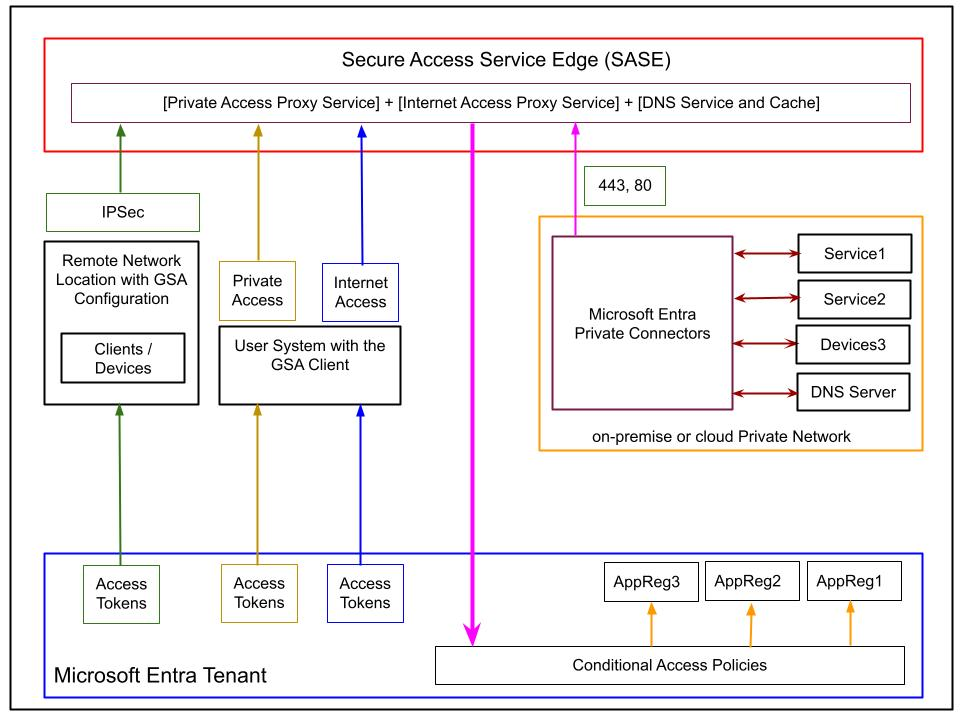
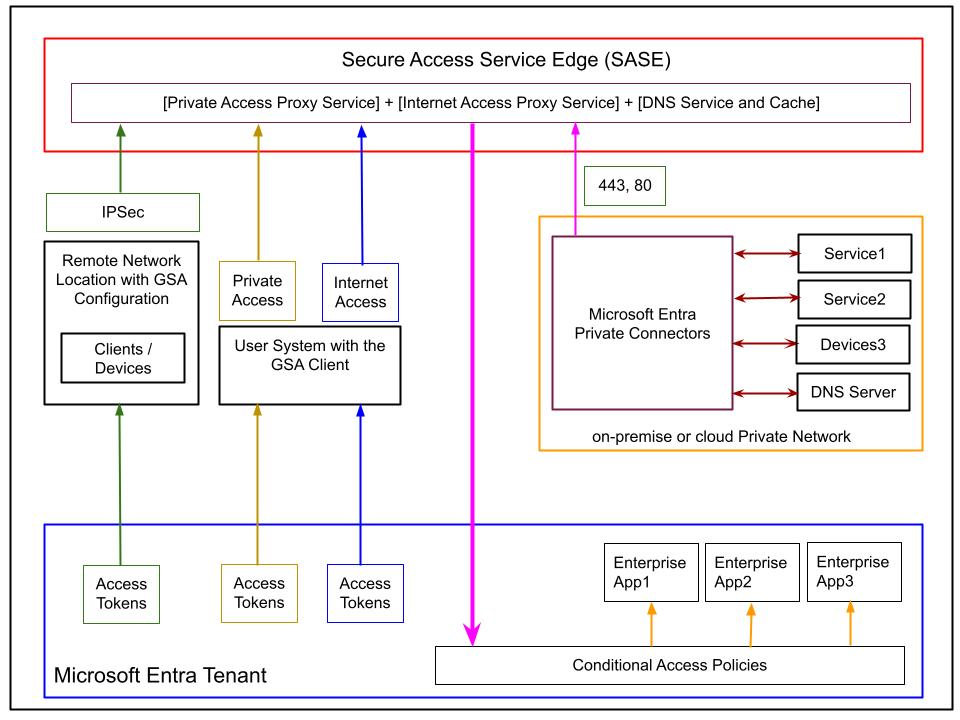
20260323

Changed region(s): [[0.0312, 0.7028, 0.9688, 0.825]]

diff --git a/Microsoft Global Access/PicoRevisedArticle01.md b/Microsoft Global Access/PicoRevisedArticle01.md
@@ -30,7 +30,7 @@ Global Secure Access uses Microsoft's global network presence to connect users t
 
 The **Global Secure Access Client** is installed on managed endpoints and is responsible for forwarding supported traffic to the Global Secure Access service. It works at operating system level and is typically deployed and managed through endpoint management tools such as Microsoft Intune or another MDM solution.
 
-The client forwards traffic according to the enabled **traffic forwarding profiles** and the applicable policy configuration. This point is important: traffic handling depends on what profiles are enabled and what scenarios are supported, not simply on the presence of the client alone.【call_qqiVeij6mF4lmXIi1RzyE0lb-4】【call_GSyrj7jUAJiktG9K4OdUI2le-9】
+The client forwards traffic according to the enabled **traffic forwarding profiles** and the applicable policy configuration. This point is important: traffic handling depends on what profiles are enabled and what scenarios are supported, not simply on the presence of the client alone.
 
 At a high level, the client can participate in forwarding three traffic categories:
 
@@ -38,17 +38,17 @@ At a high level, the client can participate in forwarding three traffic categori
 - **Microsoft 365 traffic**
 - **Internet traffic**
 
-These traffic categories are then processed by the service according to Microsoft Entra policy, user context, device context, and the specific capabilities enabled in the tenant.【call_qqiVeij6mF4lmXIi1RzyE0lb-1】
+These traffic categories are then processed by the service according to Microsoft Entra policy, user context, device context, and the specific capabilities enabled in the tenant.
 
 ## The private network connector
 
-The **Microsoft Entra private network connector** is used for Microsoft Entra Private Access. It is a lightweight Microsoft-managed component installed on Windows Server systems that have line of sight to the private resources being published through the service.【call_rDTvDpF3n8ZdGwVN6DT0Qp9S-0】【call_rDTvDpF3n8ZdGwVN6DT0Qp9S-2】
+The **Microsoft Entra private network connector** is used for Microsoft Entra Private Access. It is a lightweight Microsoft-managed component installed on Windows Server systems that have line of sight to the private resources being published through the service.
 
-Like the Microsoft Entra Application Proxy connector, it uses an outbound-only communication model. No inbound firewall opening is required for the connector itself, because the connector initiates the connection to the Microsoft service.【call_rDTvDpF3n8ZdGwVN6DT0Qp9S-0】
+Like the Microsoft Entra Application Proxy connector, it uses an outbound-only communication model. No inbound firewall opening is required for the connector itself, because the connector initiates the connection to the Microsoft service.
 
-Connectors should be deployed redundantly on multiple Windows Servers. They are stateless, and Microsoft recommends using more than one connector for resilience and scale.【call_rDTvDpF3n8ZdGwVN6DT0Qp9S-0】
+Connectors should be deployed redundantly on multiple Windows Servers. They are stateless, and Microsoft recommends using more than one connector for resilience and scale.
 
-Connector performance depends more on request rate, payload size, CPU, and network capacity than on raw user or session count. Microsoft states that, with standard web traffic, an average machine can handle around 2,000 requests per second.【call_rDTvDpF3n8ZdGwVN6DT0Qp9S-0】
+Connector performance depends more on request rate, payload size, CPU, and network capacity than on raw user or session count. Microsoft states that, with standard web traffic, an average machine can handle around 2,000 requests per second.
 
 ---
 
@@ -62,14 +62,14 @@ Global Secure Access supports policy-driven handling of three traffic categories
 - **Internet traffic**: traffic to internet and SaaS destinations
 - **Microsoft traffic**: traffic to supported Microsoft 365 services
 
-This model allows organizations to apply identity-aware controls to network access, not only to cloud application sign-in events. Microsoft refers to this as **Universal Conditional Access** through Global Secure Access.【call_GSyrj7jUAJiktG9K4OdUI2le-6】
+This model allows organizations to apply identity-aware controls to network access, not only to cloud application sign-in events. Microsoft refers to this as **Universal Conditional Access** through Global Secure Access.
 
 In practice, Conditional Access can be used with Global Secure Access to require conditions such as:
 
 - multifactor authentication
 - compliant device
 - acceptable sign-in risk
-- compliant network, where supported【call_GSyrj7jUAJiktG9K4OdUI2le-6】【call_GSyrj7jUAJiktG9K4OdUI2le-2】
+- compliant network, where supported
 
 ---
 
@@ -82,26 +82,26 @@ Global Secure Access improves this area with features such as:
 - **Compliant network**
 - **Universal Tenant Restrictions**
 
-These features reduce dependency on static IP-based trust models and improve policy consistency across managed endpoints and supported network paths.【call_GSyrj7jUAJiktG9K4OdUI2le-1】【call_GSyrj7jUAJiktG9K4OdUI2le-2】
+These features reduce dependency on static IP-based trust models and improve policy consistency across managed endpoints and supported network paths.
 
 ## Compliant network
 
-[Compliant network check in Global Secure Access](https://learn.microsoft.com/en-us/entra/global-secure-access/how-to-compliant-network) allows administrators to require that access comes through the Global Secure Access service path for the correct tenant.【call_GSyrj7jUAJiktG9K4OdUI2le-2】
+[Compliant network check in Global Secure Access](https://learn.microsoft.com/en-us/entra/global-secure-access/how-to-compliant-network) allows administrators to require that access comes through the Global Secure Access service path for the correct tenant.
 
 This helps in two main ways:
 
 1. it reduces the need to maintain trusted egress IP ranges
-2. it removes the need to hairpin traffic through VPN infrastructure only to preserve IP-based trust for Conditional Access【call_GSyrj7jUAJiktG9K4OdUI2le-2】
+2. it removes the need to hairpin traffic through VPN infrastructure only to preserve IP-based trust for Conditional Access
 
-For example, if a tenant requires compliant network, only devices using the Global Secure Access client or users behind a configured remote network can satisfy that control for supported scenarios.【call_GSyrj7jUAJiktG9K4OdUI2le-2】
+For example, if a tenant requires compliant network, only devices using the Global Secure Access client or users behind a configured remote network can satisfy that control for supported scenarios.
 
-**Important limitation:** compliant network check is currently **not supported for Private Access applications**.【call_GSyrj7jUAJiktG9K4OdUI2le-3】
+**Important limitation:** compliant network check is currently **not supported for Private Access applications**.
 
 ## Tenant Restrictions and Universal Tenant Restrictions
 
 [Tenant Restrictions v2](https://learn.microsoft.com/en-us/entra/external-id/tenant-restrictions-v2#step-3-enable-tenant-restrictions-on-windows-managed-devices) help control how managed users and devices interact with external Microsoft Entra tenants.
 
-Universal Tenant Restrictions extend this model by using Global Secure Access to tag traffic consistently across supported clients and remote network connectivity.【call_GSyrj7jUAJiktG9K4OdUI2le-1】
+Universal Tenant Restrictions extend this model by using Global Secure Access to tag traffic consistently across supported clients and remote network connectivity.
 
 This improves enforcement in two areas:
 
@@ -109,9 +109,9 @@ This improves enforcement in two areas:
    This helps block sign-in attempts that use unauthorized external identities.
 
 2. **Data plane protection**  
-   This helps reduce token replay and unauthorized resource access in supported Microsoft-integrated scenarios.【call_GSyrj7jUAJiktG9K4OdUI2le-1】【call_GSyrj7jUAJiktG9K4OdUI2le-2】
+   This helps reduce token replay and unauthorized resource access in supported Microsoft-integrated scenarios.
 
-A practical benefit is that organizations can reduce the risk of data exfiltration to unauthorized external tenants or personal accounts while keeping policy management centralized.【call_GSyrj7jUAJiktG9K4OdUI2le-0】【call_GSyrj7jUAJiktG9K4OdUI2le-1】
+A practical benefit is that organizations can reduce the risk of data exfiltration to unauthorized external tenants or personal accounts while keeping policy management centralized.
 
 ---
 
@@ -123,7 +123,7 @@ Global Secure Access provides a unified model for managing access from managed d
 - **Conditional Access**
 - **traffic forwarding profiles**
 - **security policies**
-- **private network connectors**, where Private Access is involved【call_qqiVeij6mF4lmXIi1RzyE0lb-4】【call_rDTvDpF3n8ZdGwVN6DT0Qp9S-0】
+- **private network connectors**, where Private Access is involved
 
 At a high level, Global Secure Access supports:
 
@@ -148,21 +148,21 @@ The main design goals are:
 3. support non-HTTP protocols as well as web traffic
 4. apply segmented access to specific private destinations
 
-Microsoft Entra Private Access is Microsoft's ZTNA capability for private resources.【call_qqiVeij6mF4lmXIi1RzyE0lb-2】
+Microsoft Entra Private Access is Microsoft's ZTNA capability for private resources.
 
 ## Private Access application model
 
 Private Access works with **enterprise applications** that act as containers for the private resources that must be published through the service. Microsoft documentation describes two main models:
 
 1. **Quick Access**
-2. **Global Secure Access applications**【call_qqiVeij6mF4lmXIi1RzyE0lb-2】【call_qqiVeij6mF4lmXIi1RzyE0lb-9】
+2. **Global Secure Access applications**
 
 These applications define private access segments using combinations of:
 
 - IP addresses or IP ranges
 - FQDNs
 - protocols
-- ports【call_qqiVeij6mF4lmXIi1RzyE0lb-9】
+- ports
 
 This allows organizations to move from broad VPN access toward more selective per-app or per-segment access.
 

diff --git a/Microsoft Global Access/PicoPrompt.md b/Microsoft Global Access/PicoPrompt.md
@@ -74,13 +74,16 @@ What needs work:
    - Microsoft documentation describes **enterprise applications / Global Secure Access apps / Quick Access** for Private Access, not standard app registrations in the way you present them.
 
 5. **Remote network section has a major issue**
+
    - Current Microsoft limitation: **Private Access traffic can only be acquired with the Global Secure Access client**.
    - **Remote networks can't be assigned to the Private Access traffic forwarding profile**.
 
 6. **Compliant network section needs one limitation**
+
    - **Compliant network check is currently not supported for Private Access applications**.
 
 7. **Internet Access is not a replacement for Application Proxy**
+
    - That framing is wrong.
    - Internet Access is SWG for internet/SaaS traffic.
    - Private Access is ZTNA for private resources.
@@ -89,6 +92,7 @@ What needs work:
 ### What is correct and well aligned
 
 These parts are broadly right:
+
 - GSA unifies Private Access and Internet Access in the Entra admin center.
 - Private network connectors are outbound and stateless.
 - Connector scaling is about requests/payload more than session count.
@@ -97,6 +101,7 @@ These parts are broadly right:
 ### Spelling quality
 
 Yes, there are **many spelling mistakes**. Repeated examples:
+
 - `Acces` -> `Access`
 - `conisderably` -> `considerably`
 - `bandwith` -> `bandwidth`
@@ -114,6 +119,7 @@ This needs a full proofreading pass before publication.
 Your Microsoft Learn references are relevant and strong.
 
 The John Savill YouTube references are also relevant to the topic and appropriate as supporting references:
+
 - SSE overview
 - Internet Access deep dive
 - Private Access deep dive
@@ -132,7 +138,10 @@ Before sending to your supervisor:
 
 ### Important note
 
-I attempted to produce the `.md` review file for you, but the file-generation shell tool failed because the bash session could not start in this environment. So I can still help in two ways:
+I attempted to produce the `.md` review file for you, but the file-generation shell tool failed 
+because the bash session could not start in this environment. 
+
+So I can still help in two ways:
 
 1. **I can paste the full markdown review in my next message**, ready for you to save as a file.
 2. **I can produce a cleaned-up revised version of the article text section by section**.
